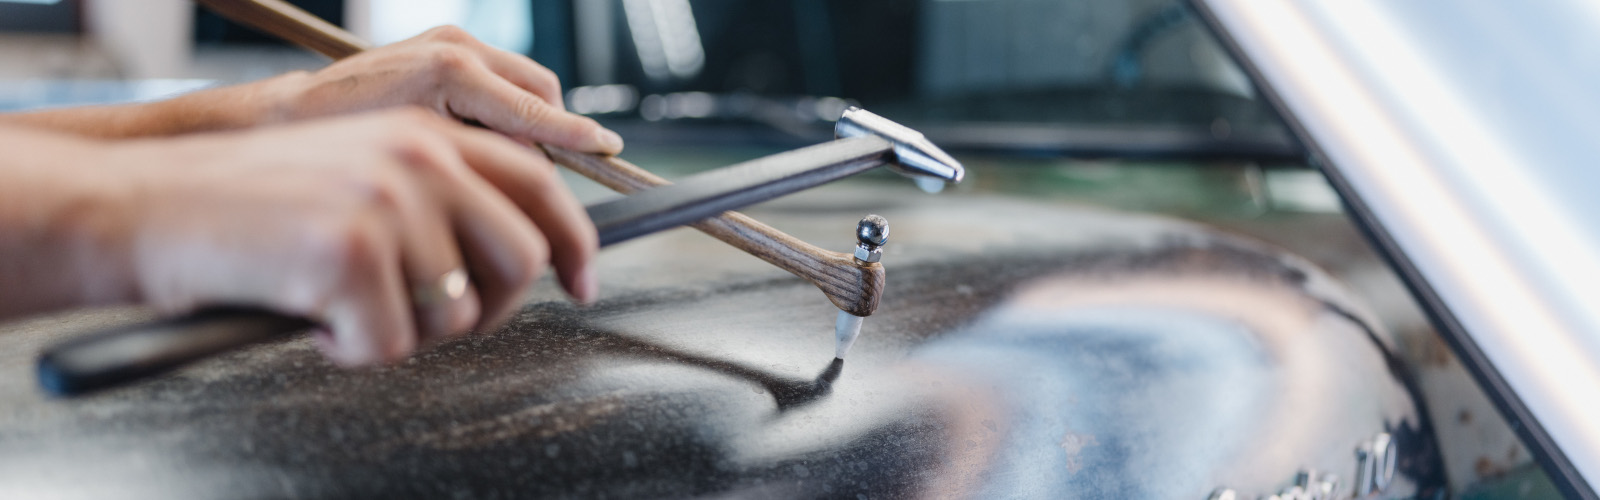
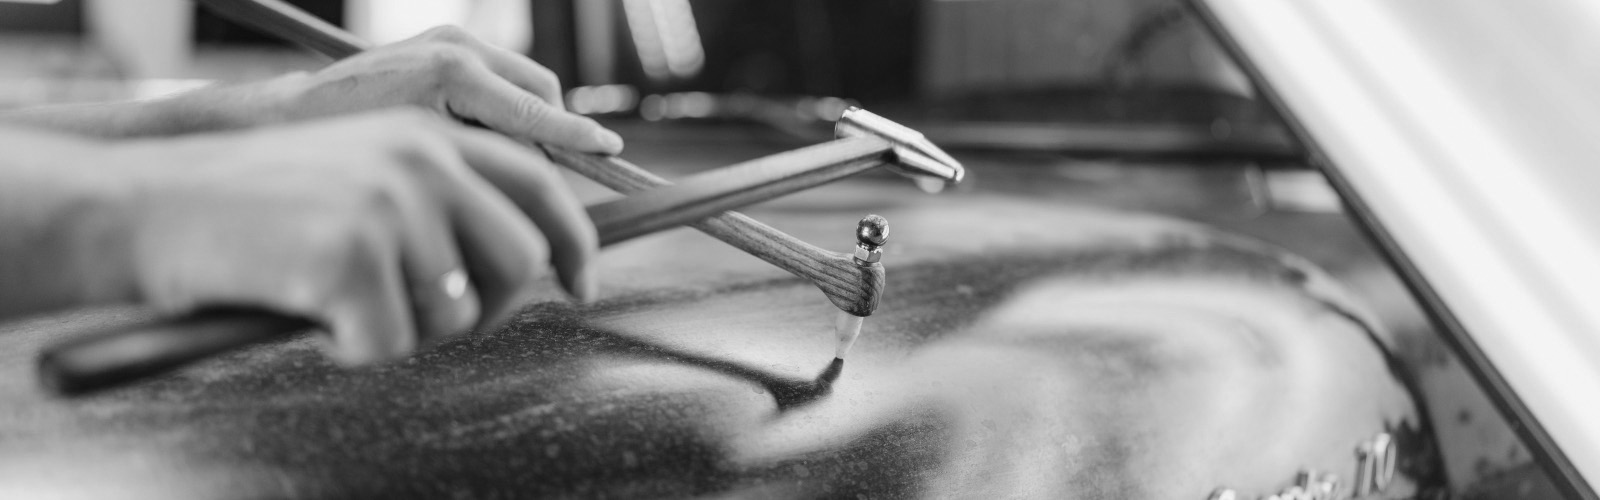
vorKundenstimmmen CleanUp

diff --git a/index.html b/index.html
@@ -70,6 +70,7 @@
       --delluxe_black:        #0c0c0c;
       --delluxe_black_transparent55:        #0c0c0c55;
       --delluxe_black_transparent85:        #0c0c0c85;
+      --delluxe_black_transparentC0: #0c0c0cc0;
       --delluxe_white:        #f5f5f2;
       --gold:                 #f5c518;
       --mediumgrey:           #444444;
@@ -343,20 +344,46 @@
     ════════════════════════════ */
     .reviews { padding: 60px 0; }
     .reviews__header { text-align: left; margin-bottom: 48px; }
-    .reviews__slider { position: relative; overflow: hidden; padding-top: 32px; margin-top: -16px; padding-bottom: 16px; margin-bottom: -16px; visibility: hidden; }
+    .reviews__slider { position: relative; overflow: hidden;}
     .reviews__track  { display: flex; gap: var(--card-gap); will-change: transform; }
     .reviews__track.is-animating { transition: transform 0.6s cubic-bezier(0.4,0,0.2,1); }
     .reviews__slide  { flex-shrink: 0; align-self: flex-start; transition: filter 0.5s, opacity 0.5s, transform 0.5s; filter: blur(8px); opacity: 0.45; }
     .no-transition .reviews__slide,
     .no-transition .slider__slide { transition: none; }
-    .reviews__slide.is-active { filter: blur(0); opacity: 1; transform: translateY(-32px); box-shadow: 3px 3px 12px var(--white_transparent10);}
+    .reviews__slide.is-active { filter: blur(0); opacity: 1;}
 
-    .review-card { background: linear-gradient(180deg, var(--delluxe_black) 0%, var(--softgreen_transparent10) 50%, var(--delluxe_black) 100%);
-    border-radius: var(--radius); padding: 32px; display: flex; flex-direction: column; gap: 16px; }
+    .review-card { border-radius: var(--radius); padding: 32px; display: flex; flex-direction: column; gap: 16px; }
     .review-card__meta   { display: flex; align-items: center; gap: 12px; margin-top: -36px;}
     .review-card__stars  { color: var(--gold); font-size: 13px; letter-spacing: 2px; }
     .review-card__source { font-size: 12px; color: var(--mediumgrey); }
     .review-card__quote  { font-size: 15px; color: var(--softgrey70); line-height: 1.7; font-style: italic; }
+
+    /* ════════════════════════════
+       BEWERTUNGEN V2 (::after Technik)
+    ════════════════════════════ */
+    .reviews--v2 .reviews__slider {
+      background: url('images/Reviews.jpg') center / 79.5% 300px no-repeat;
+    }
+    .reviews--v2 .review-card {
+      height: 300px;
+      overflow: hidden;
+      position: relative;
+      background-color: var(--delluxe_black_transparentC0);
+    }
+    .reviews--v2 .review-card::after {
+      content: '';
+      position: absolute;
+      inset: 0;
+    }
+    .reviews--v2 .reviews__slide.is-active .review-card::after {
+      opacity: 0.23;
+      scale: 1.02;
+      background: url('images/Reviews.jpg') center / cover no-repeat fixed;
+    }
+    .reviews--v2 .review-card > * {
+      position: relative;
+      z-index: 1;
+    }
 
     /* ════════════════════════════
        FAQ
@@ -902,6 +929,81 @@ Wirklich erstklassige Arbeit und dazu noch menschlich 1A. Besser geht es nicht. 
     </div>
   </section>
 
+  <!-- ═══ BEWERTUNGEN V2 (::after Technik) ═══ -->
+  <section class="reviews reviews--v2" id="bewertungen-v2">
+    <div class="container">
+      <div class="reviews__header reveal">
+        <span class="eyebrow">Kundenstimmen V2</span>
+        <h2 class="section-title">Beulendoktor mit 4.9 auf Google</h2>
+      </div>
+
+      <div class="slider-dots" id="reviewsDotsV2"></div>
+      <div class="reviews__slider">
+        <div class="reviews__track" id="reviewsTrackV2">
+          <div class="reviews__slide">
+            <div class="review-card">
+              <span class="eyebrow">Dominik Urbaniak</span>
+              <div class="review-card__meta">
+                <span class="review-card__stars">&#9733;&#9733;&#9733;&#9733;&#9733;</span>
+                <span class="review-card__source" data-review-date="2025-11"></span>
+              </div>
+              <p class="review-card__quote">Hatte mir eine blöde Delle am Kofferraum beim ausparken geholt. Ich habe mich aufgrund der Rezension vom Taxifahrer und der professionellen Website für Delluxe Dellen entschieden. Ich wurde super und transparent über die Schritte und Vorgehensweise informiert. Besonders gefallen hat mir, dass sich Zeit genommen wurde und alle möglichen Szenarien durchgegangen wurden. Dadurch habe ich mich sehr gut aufgehoben gefühlt. Das ganze drum herum war TOP - genau wie das Ergebnis.</p>
+            </div>
+          </div>
+          <div class="reviews__slide">
+            <div class="review-card">
+              <span class="eyebrow">Lucas Breinlinger</span>
+              <div class="review-card__meta">
+                <span class="review-card__stars">&#9733;&#9733;&#9733;&#9733;&#9733;</span>
+                <span class="review-card__source" data-review-date="2026-02"></span>
+              </div>
+              <p class="review-card__quote">Sehr professionell, sehr freundlich. Alle Zusagen inkl. Preis wurden eingehalten.
+                <br><br>Ich bin aufgrund zweier Dellen zu Dellen Deluxe gekommen. Eine wurde schon vorab von einem anderen Dienstleister bearbeitet, dieser konnte sie jedoch nicht restlos entfernen.
+Nach einem kurzem Besuch bei Dellen Deluxe sind beide Dellen glücklicherweise Geschichte.<br><br>Vielen Dank !</p>
+            </div>
+          </div>
+          <div class="reviews__slide">
+            <div class="review-card">
+              <span class="eyebrow">David Matzner</span>
+              <div class="review-card__meta">
+                <span class="review-card__stars">&#9733;&#9733;&#9733;&#9733;&#9733;</span>
+                <span class="review-card__source" data-review-date="2025-12"></span>
+              </div>
+              <p class="review-card__quote">Know-how und Perfektion vereint. Meine Anlaufstelle seit Jahren wenn es um kompetente Dellenreparatur geht. Ob Mega-Hagelschaden oder Parkrempler, ich wurde vom Ergebnis noch nie enttäuscht und freue mich auf lange weitere Zusammenarbeit!</p>
+            </div>
+          </div>
+          <div class="reviews__slide">
+            <div class="review-card">
+              <span class="eyebrow">Angi Stimmelmayr</span>
+              <div class="review-card__meta">
+                <span class="review-card__stars">&#9733;&#9733;&#9733;&#9733;&#9733;</span>
+                <span class="review-card__source" data-review-date="2025-09"></span>
+              </div>
+              <p class="review-card__quote">Super Arbeit, überaus freundlich und hilfsbereit!!!<br>
+War mit meinem 10 Jahre alten Golf bei Hr. Rizmann und seinem Mitarbeiter Andi.<br>
+Fahrzeug sollte wegen Verkauf gleich von mehreren Wehwehchen befreit werden. Parkdelle an der Türe, alte eingebrannte Vogelcodestellen am Lack, Ein bzw. Ausladespuren am Stoßfänger hinten, rostiger AHK-Kopf sowie ein alter Hagelschaden am Dach.
+Und nun zitiere ich die Worte des Käufers als er das Fahrezeug nach der Behandlung bei Delluxe Dellen GmbH bei mir abholte: Der steht ja da wie ein Neuwagen.
+Vielen Dank liebes Delluxe Dellen Team.<br>
+Wirklich erstklassige Arbeit und dazu noch menschlich 1A. Besser geht es nicht. Mehr kann man nicht sagen!!! Weiter so!!!</p>
+            </div>
+          </div>
+          <div class="reviews__slide">
+            <div class="review-card">
+              <span class="eyebrow">Yi Yu</span>
+              <div class="review-card__meta">
+                <span class="review-card__stars">&#9733;&#9733;&#9733;&#9733;&#9733;</span>
+                <span class="review-card__source" data-review-date="2025-04"></span>
+              </div>
+              <p class="review-card__quote">Kleine Delle an der Tür wurde schnell und professionell entfernt, danach ist die Delle perfekt verschwunden. Sehr freundliches Personal! Absolut zu empfehlen! Vorher besser immer anrufen um einen Termin zu bekommen, alles sehr unkompliziert gelaufen.</p>
+            </div>
+          </div>
+        </div>
+        <button class="slider__btn slider__btn--prev" id="reviewsPrevV2" aria-label="Vorherige Bewertung">&#8249;</button>
+        <button class="slider__btn slider__btn--next" id="reviewsNextV2" aria-label="Nächste Bewertung">&#8250;</button>
+      </div>
+    </div>
+  </section>
+
   <!-- ═══ FAQ ═══ -->
   <section class="faq">
     <div class="container">
@@ -1384,12 +1486,11 @@ Wirklich erstklassige Arbeit und dazu noch menschlich 1A. Besser geht es nicht. 
       }
     });
 
-    // Reviews: Infinite Slider mit Blur
+    // Reviews: Infinite Slider
     const reviewsTrack = document.getElementById('reviewsTrack');
     const origReviews  = [...reviewsTrack.children];
     const reviewCount  = origReviews.length;
 
-    // Reviews-Dots erstellen
     const rDotsEl = document.getElementById('reviewsDots');
     if (rDotsEl) {
       origReviews.forEach((_, i) => {
@@ -1455,12 +1556,88 @@ Wirklich erstklassige Arbeit und dazu noch menschlich 1A. Besser geht es nicht. 
     document.getElementById('reviewsPrev').addEventListener('click', () => { clearInterval(rAutoPlay); rPrev(); rAutoPlay = setInterval(rNext, 5000); });
     document.getElementById('reviewsNext').addEventListener('click', () => { clearInterval(rAutoPlay); rNext(); rAutoPlay = setInterval(rNext, 5000); });
 
-    // Reviews: Touch-Swipe (mobile)
     let rTouchX = 0;
     reviewsTrack.parentElement.addEventListener('touchstart', e => { rTouchX = e.touches[0].clientX; }, { passive: true });
     reviewsTrack.parentElement.addEventListener('touchend', e => {
       const dx = e.changedTouches[0].clientX - rTouchX;
       if (Math.abs(dx) > 40) { clearInterval(rAutoPlay); dx < 0 ? rNext() : rPrev(); rAutoPlay = setInterval(rNext, 5000); }
+    }, { passive: true });
+
+    // Reviews V2: Infinite Slider (::after Technik)
+    const reviewsTrackV2 = document.getElementById('reviewsTrackV2');
+    const origReviewsV2  = [...reviewsTrackV2.children];
+    const reviewCountV2  = origReviewsV2.length;
+
+    const rDotsElV2 = document.getElementById('reviewsDotsV2');
+    if (rDotsElV2) {
+      origReviewsV2.forEach((_, i) => {
+        const dot = document.createElement('span');
+        dot.className = 'dot' + (i === 0 ? ' active' : '');
+        rDotsElV2.appendChild(dot);
+      });
+    }
+
+    origReviewsV2.forEach(s => reviewsTrackV2.insertBefore(s.cloneNode(true), reviewsTrackV2.firstChild));
+    origReviewsV2.forEach(s => reviewsTrackV2.appendChild(s.cloneNode(true)));
+
+    let rCurrentV2 = reviewCountV2;
+    let rAutoPlayV2;
+
+    function rContainerWV2() { return reviewsTrackV2.parentElement.offsetWidth; }
+    function rSlideElemWV2() { return rContainerWV2() * SLIDE_RATIO; }
+    function rPeekV2()       { return (rContainerWV2() - rSlideElemWV2()) / 2; }
+    function rSlideWidthV2() { return rSlideElemWV2() + GAP; }
+
+    function rSetWidthsV2() {
+      const w = rSlideElemWV2() + 'px';
+      [...reviewsTrackV2.children].forEach(s => s.style.width = w);
+    }
+    rSetWidthsV2();
+    window.addEventListener('resize', () => { rSetWidthsV2(); rGoToV2(rCurrentV2, false); });
+
+    function rGoToV2(index, animate = true) {
+      if (animate) {
+        reviewsTrackV2.classList.add('is-animating');
+      } else {
+        reviewsTrackV2.classList.add('no-transition');
+        reviewsTrackV2.classList.remove('is-animating');
+      }
+      rCurrentV2 = index;
+      reviewsTrackV2.style.transform = `translateX(${rPeekV2() - rCurrentV2 * rSlideWidthV2()}px)`;
+      [...reviewsTrackV2.children].forEach((s, i) => s.classList.toggle('is-active', i === rCurrentV2));
+      if (!animate) requestAnimationFrame(() => requestAnimationFrame(() => reviewsTrackV2.classList.remove('no-transition')));
+      const rRealIdxV2 = ((index - reviewCountV2) % reviewCountV2 + reviewCountV2) % reviewCountV2;
+      if (rDotsElV2) rDotsElV2.querySelectorAll('.dot').forEach((d, i) => d.classList.toggle('active', i === rRealIdxV2));
+    }
+
+    function rNextV2() {
+      rCurrentV2++;
+      rGoToV2(rCurrentV2);
+      if (rCurrentV2 >= reviewCountV2 * 2) setTimeout(() => rGoToV2(reviewCountV2, false), 620);
+    }
+
+    function rPrevV2() {
+      rCurrentV2--;
+      rGoToV2(rCurrentV2);
+      if (rCurrentV2 <= 0) setTimeout(() => rGoToV2(reviewCountV2, false), 620);
+    }
+
+    reviewsTrackV2.classList.add('no-transition');
+    rGoToV2(reviewCountV2, false);
+    requestAnimationFrame(() => requestAnimationFrame(() => {
+      reviewsTrackV2.classList.remove('no-transition');
+      reviewsTrackV2.closest('.reviews__slider').style.visibility = 'visible';
+    }));
+    rAutoPlayV2 = setInterval(rNextV2, 5000);
+
+    document.getElementById('reviewsPrevV2').addEventListener('click', () => { clearInterval(rAutoPlayV2); rPrevV2(); rAutoPlayV2 = setInterval(rNextV2, 5000); });
+    document.getElementById('reviewsNextV2').addEventListener('click', () => { clearInterval(rAutoPlayV2); rNextV2(); rAutoPlayV2 = setInterval(rNextV2, 5000); });
+
+    let rTouchXV2 = 0;
+    reviewsTrackV2.parentElement.addEventListener('touchstart', e => { rTouchXV2 = e.touches[0].clientX; }, { passive: true });
+    reviewsTrackV2.parentElement.addEventListener('touchend', e => {
+      const dx = e.changedTouches[0].clientX - rTouchXV2;
+      if (Math.abs(dx) > 40) { clearInterval(rAutoPlayV2); dx < 0 ? rNextV2() : rPrevV2(); rAutoPlayV2 = setInterval(rNextV2, 5000); }
     }, { passive: true });
 
     // Footer Akkordeon (Mobile)
